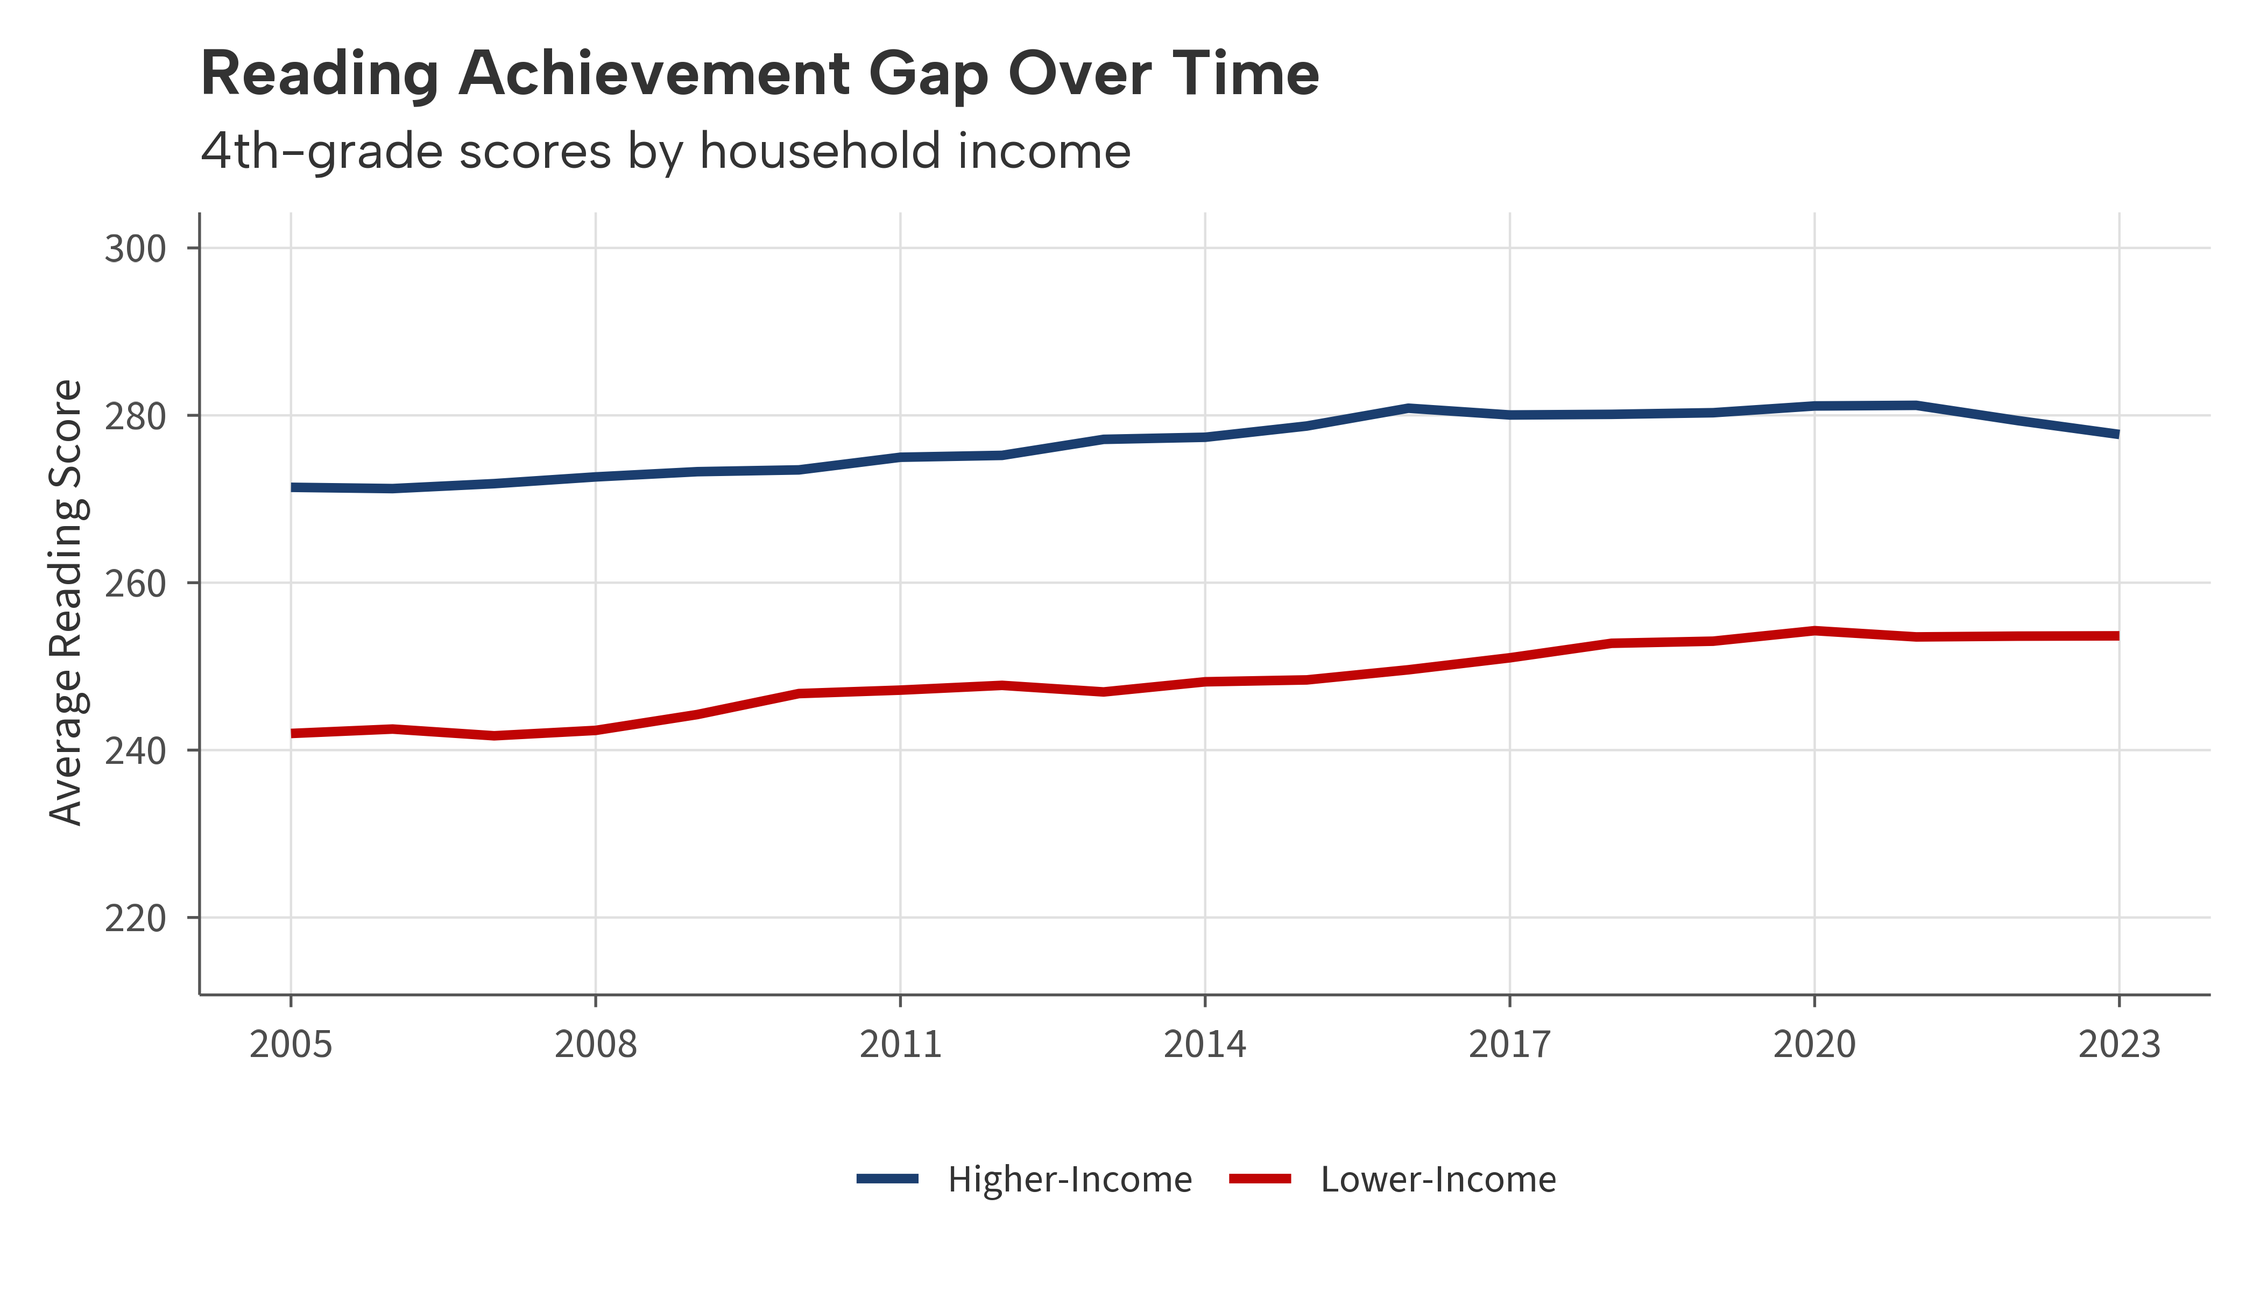
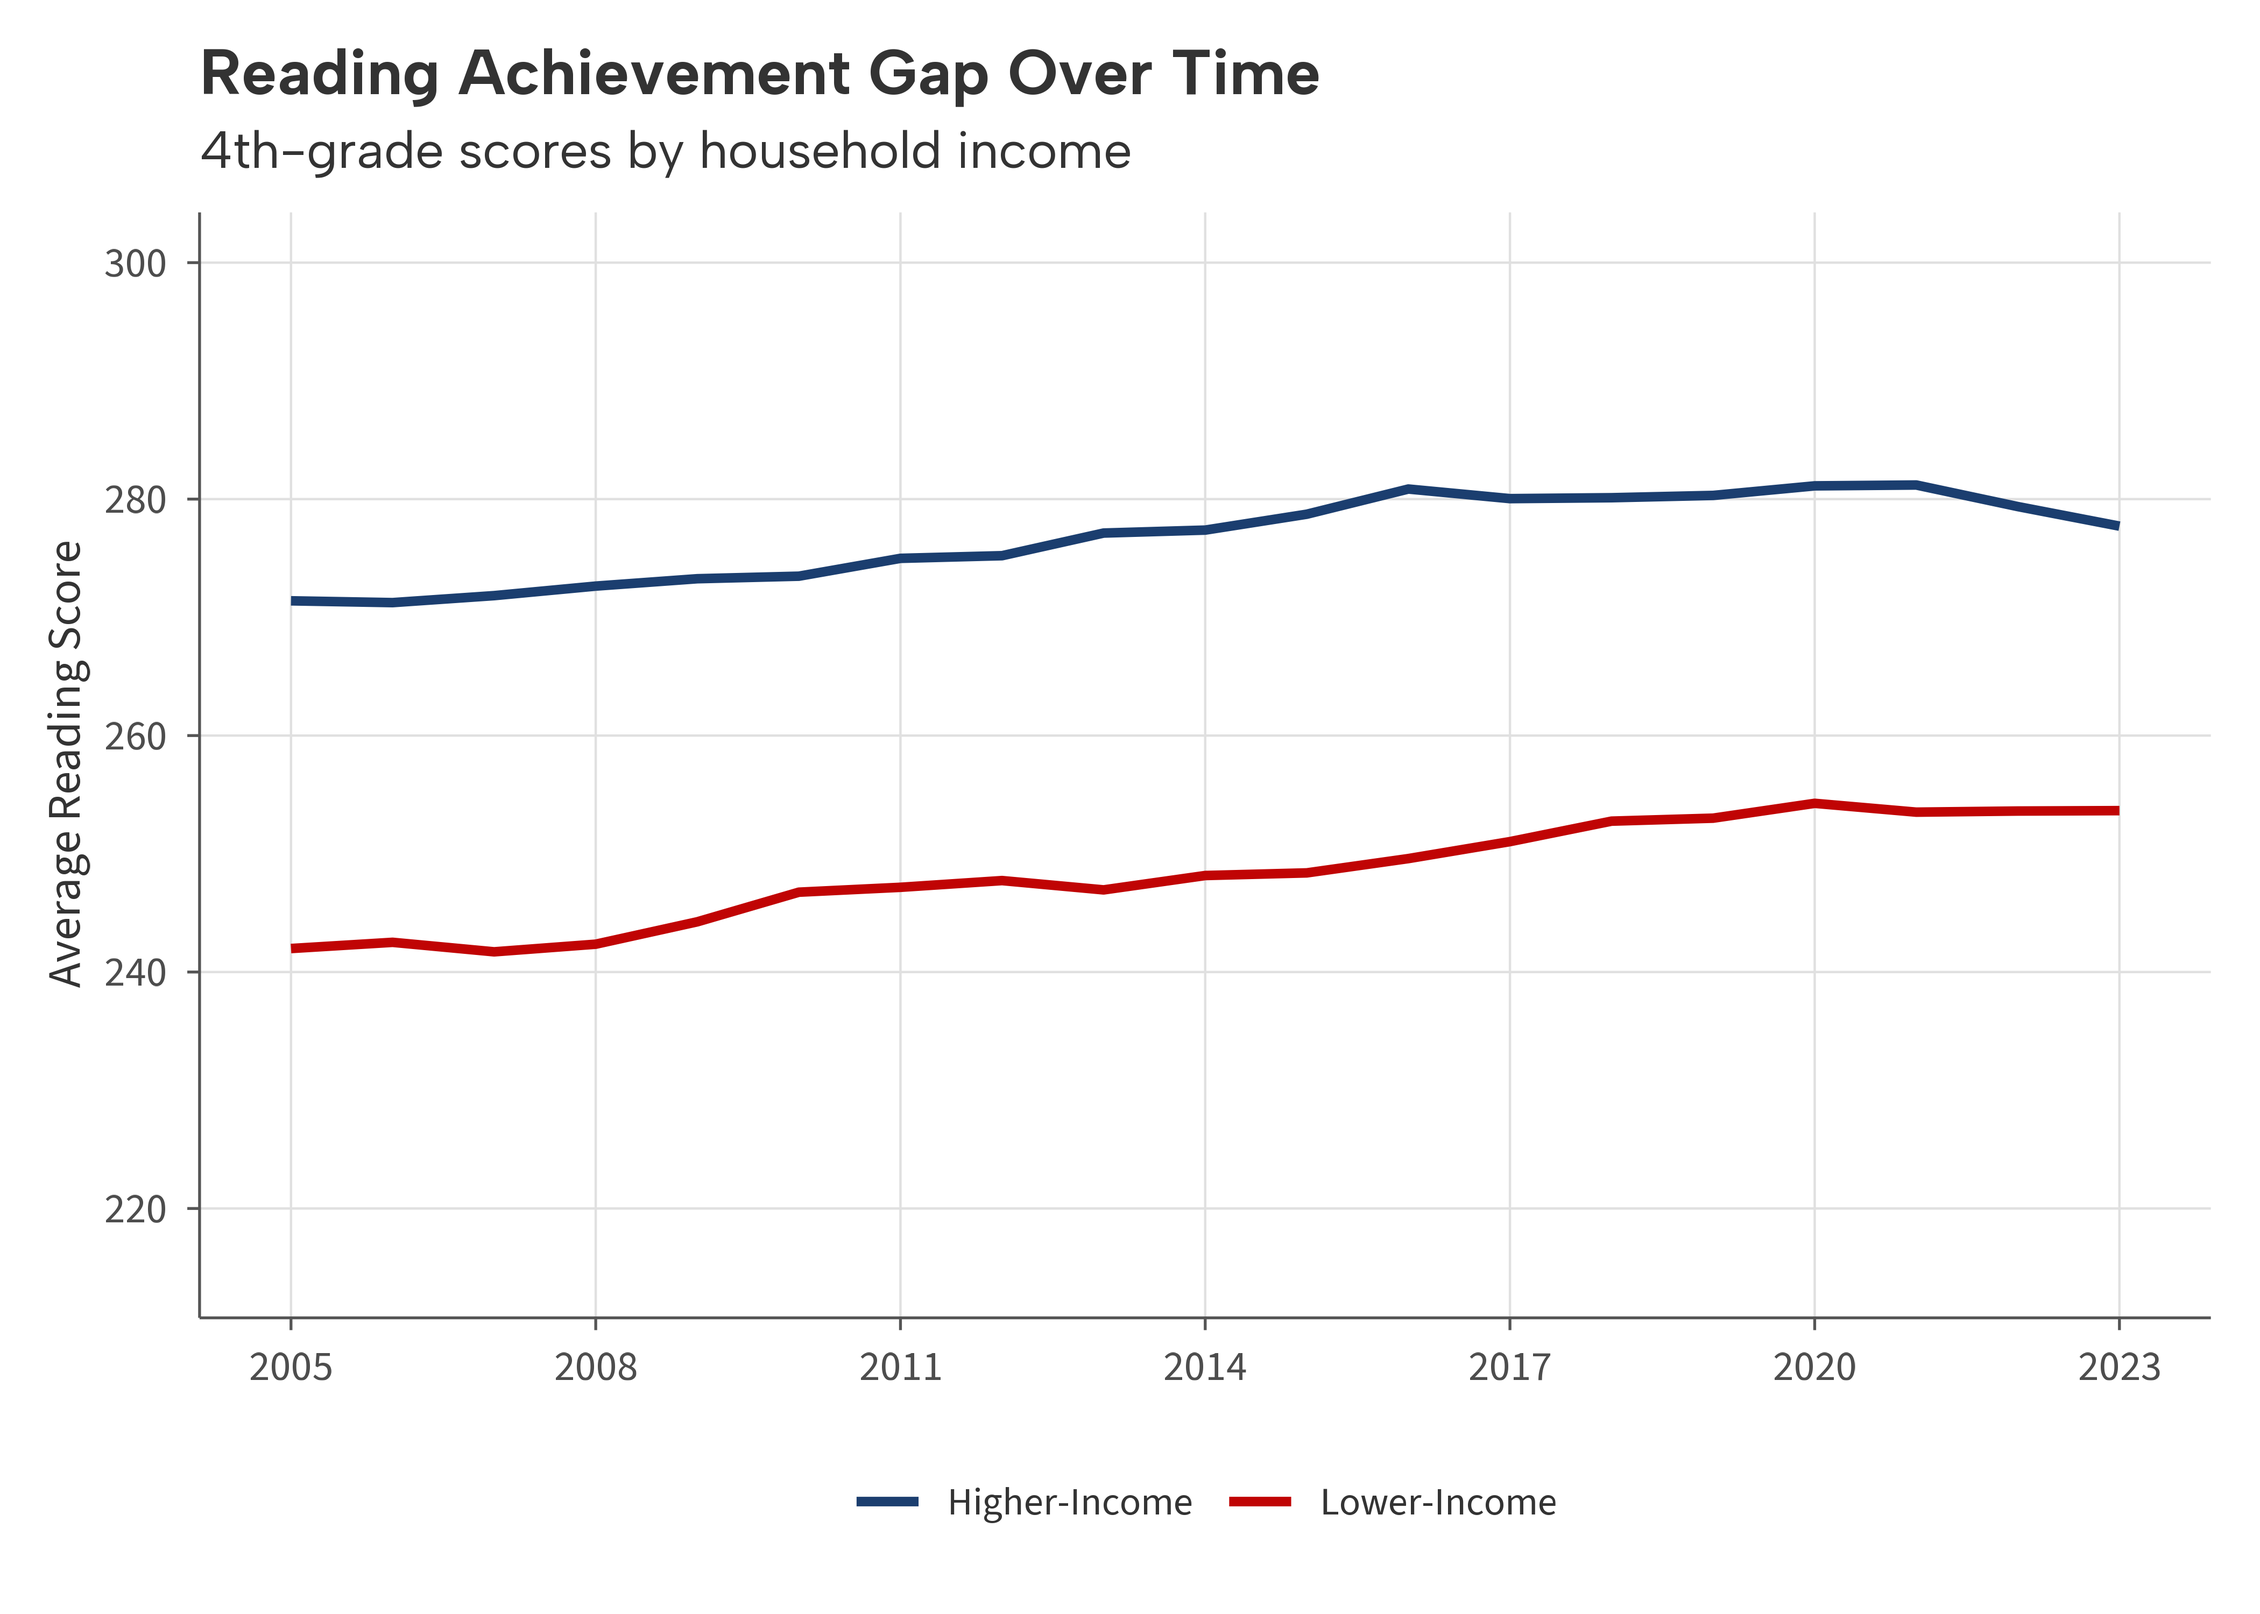
Fix navbar colors and increase figure heights
- Set navbar to light background with navy text and red active/hover
- Increase figure height from 2 to 2.5 (pkgdown/vignette) and 4 to 5
  (README) for taller plot output
- Re-knit README with updated dimensions

diff --git a/pkgdown/extra.css b/pkgdown/extra.css
@@ -35,17 +35,25 @@ h1, h2, h3, h4, h5, h6,
   font-weight: 600;
 }
 
-.navbar-dark .navbar-nav .nav-link {
-  color: rgba(255, 255, 255, 0.85);
+.navbar .navbar-nav .nav-link {
+  color: #1B3E6F;
 }
 
-.navbar-dark .navbar-nav .nav-link:hover,
-.navbar-dark .navbar-nav .nav-link:focus {
-  color: #55C8E8;
+.navbar .navbar-nav .nav-link:hover,
+.navbar .navbar-nav .nav-link:focus {
+  color: #C00404;
 }
 
-.navbar-dark .navbar-nav .nav-link.active {
-  color: #FFFFFF;
+.navbar .navbar-nav .nav-link.active {
+  color: #C00404;
+}
+
+.navbar .navbar-brand {
+  color: #1B3E6F;
+}
+
+.navbar .navbar-brand:hover {
+  color: #C00404;
 }
 
 /* --- Links --------------------------------------------------------------- */
